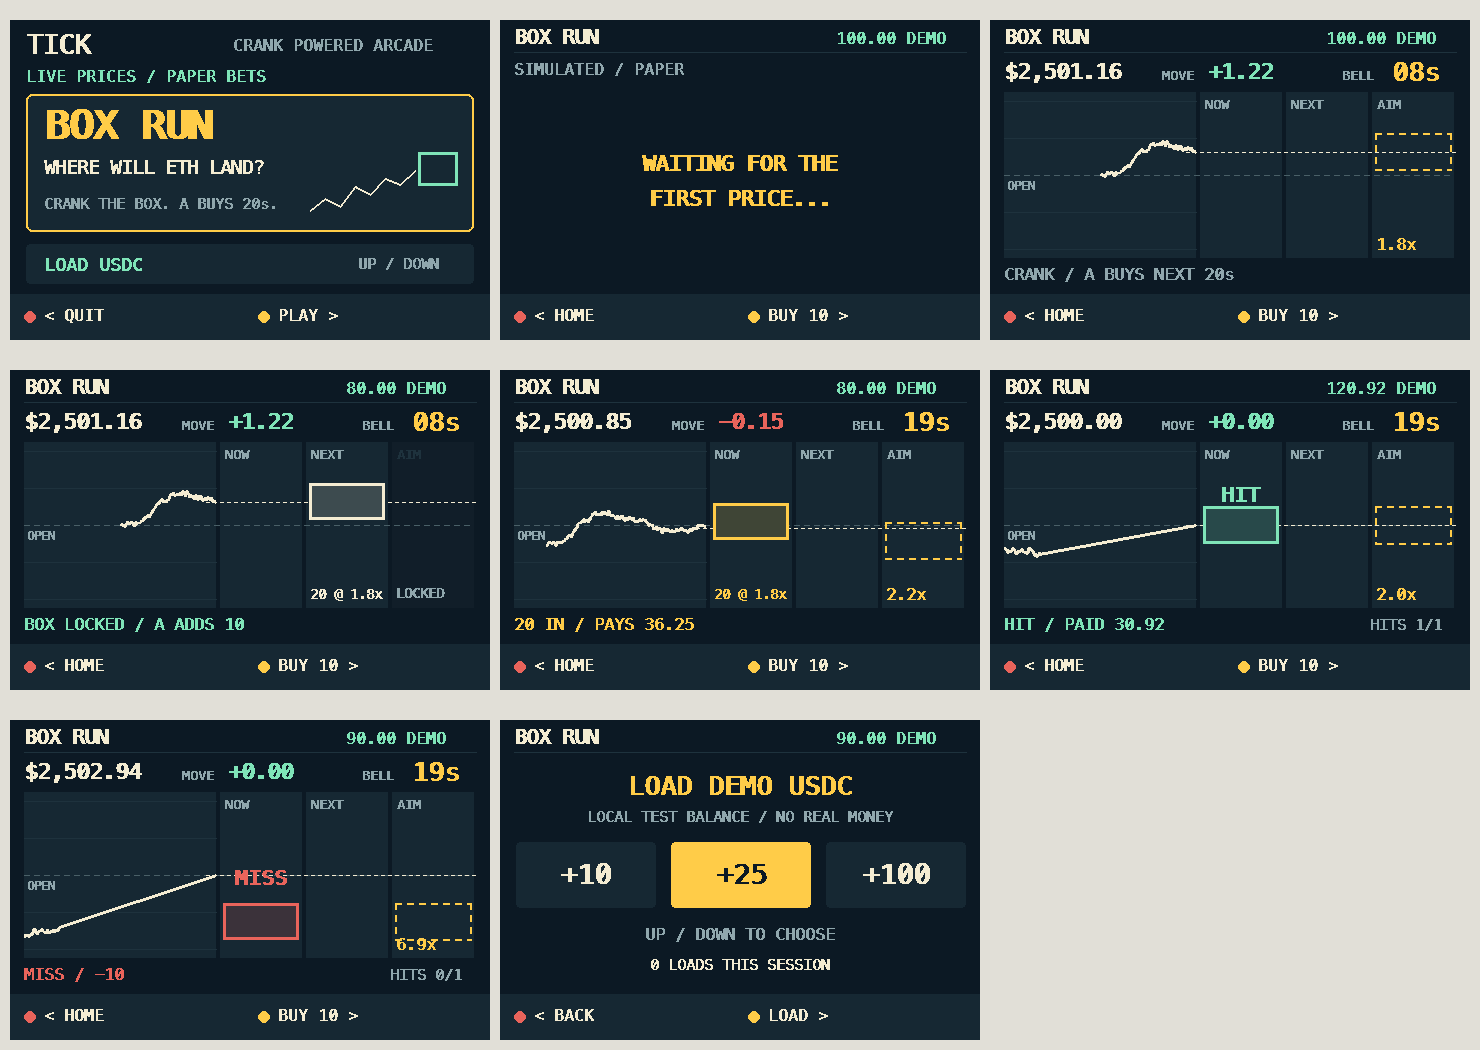
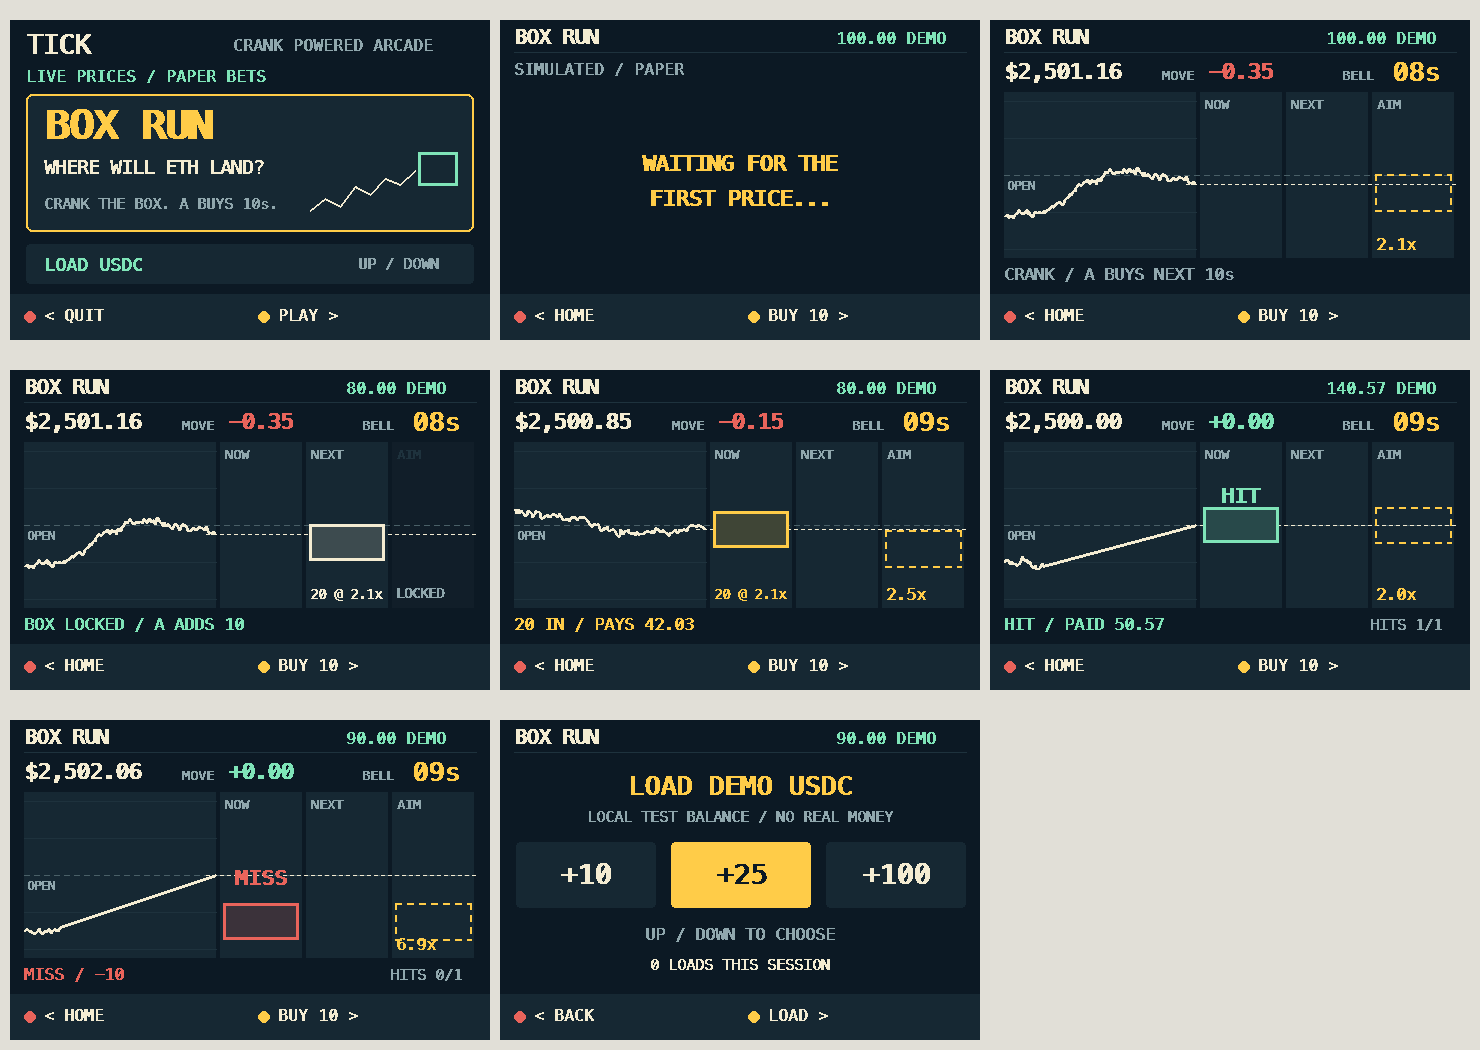
Ten-second windows, with the box scaled to match
Halving the window without touching the box would have flattened the
game rather than quickened it: a price travels sqrt(time), so a box that
stayed $2 wide becomes a near-certainty on spot paying 1.2x, with
everything past a dollar out pinned to the 25x cap.

Geometry is now quoted for a 20-second reference window and scaled by
sqrt(WINDOW_S / 20), which makes the window length a safe knob. At ten
seconds that is a $1.41 box, 18c steps and $2.12 of reach on $2,500 ETH,
and the ladder of odds is the one the 20-second build had: 1.5x on spot
at the bell out to 25x at full reach, or 1.9x to 11.6x for the same
boxes bought a window early.

The trace window follows WINDOW_S too, so it still shows this window
plus a lead-in rather than two and a half windows of history. Window
lengths in on-screen text now come from the constant instead of being
written out, which is how "A BUYS NEXT 20s" survived the change.

76 tests.

diff --git a/firmware/tests/test_box.py b/firmware/tests/test_box.py
@@ -52,11 +52,12 @@ class WindowClockTests(unittest.TestCase):
         self.assertGreater(m.window_end, now + 2 * m.WINDOW_S)
         self.assertEqual((m.rounds, m.wallet.balance), (0, START))
 
-    def test_window_length_is_exactly_twenty_seconds(self):
+    def test_windows_are_ten_seconds_long(self):
         m = model()
         feed(m, [2500.0])
         first = m.window_end
         m.update(first + .001)
+        self.assertEqual(m.WINDOW_S, 10.0)
         self.assertAlmostEqual(m.window_end - first, m.WINDOW_S)
 
     def test_rolling_is_time_driven_not_frame_driven(self):
@@ -309,27 +310,43 @@ class PricingTests(unittest.TestCase):
         # Volatility moves the odds, never the geometry: the box is a fixed
         # slice of the price, so it is identical in both markets.
         for m in (calm, wild):
-            self.assertAlmostEqual(2 * m.half / m.window_open, m.BOX_BPS / 10_000, places=12)
-            self.assertAlmostEqual(m.view_half / m.window_open, m.VIEW_BPS / 10_000, places=12)
-        self.assertAlmostEqual(2 * calm.half, 2.0, places=2)
+            self.assertAlmostEqual(2 * m.half / m.window_open,
+                                   m.BOX_BPS / 10_000 * m.SCALE, places=12)
+            self.assertAlmostEqual(m.view_half / m.window_open,
+                                   m.VIEW_BPS / 10_000 * m.SCALE, places=12)
+        self.assertAlmostEqual(2 * calm.half, 1.41, places=2)
         self.assertGreater(wild.quote(wild.price, T0), calm.quote(calm.price, T0))
 
     def test_a_placed_box_is_never_redrawn_at_another_size(self):
         m = model()
         now = warm(m)
         m.buy(now)
-        placed = m.pending.half
-        # A violent burst mid-window must not resize a bet already down.
+        order, placed = m.pending, m.pending.half
+        # A violent burst must not resize a bet already down, and the bell
+        # carrying it from pending to live must not either.
         feed(m, [2500.0 + (8.0 if i % 2 else -8.0) for i in range(40)], now + .2)
-        self.assertEqual(m.pending.half, placed)
-        self.assertEqual(m.half, placed)
+        self.assertIs(m.live, order)
+        self.assertEqual(order.half, placed)
 
     def test_the_fixture_is_roughly_live_eth_volatility(self):
         m = model()
         warm(m)
-        # About 0.04% over 20 seconds, or a dollar on $2,500.
-        self.assertLess(.5, m.window_sigma())
-        self.assertLess(m.window_sigma(), 2.0)
+        # About 0.03% over ten seconds, or 70c on $2,500.
+        self.assertLess(.4, m.window_sigma())
+        self.assertLess(m.window_sigma(), 1.4)
+
+    def test_shrinking_the_window_keeps_the_same_ladder_of_odds(self):
+        """A shorter window with a square-root-scaled box prices the same."""
+        m = model()
+        warm(m)
+        on_spot = m.quote(m.window_open, m.window_end - m.WINDOW_S)
+        far = m.quote(m.window_open + m.reach, m.window_end - m.WINDOW_S)
+        # The ladder the 20-second build had: about 2x on spot, double digits
+        # at full reach, and not pinned to the cap at either end.
+        self.assertLess(1.5, on_spot)
+        self.assertLess(on_spot, 2.6)
+        self.assertGreater(far, 5.0)
+        self.assertLess(far, m.MAX_MULTIPLE)
 
     def test_volatility_falls_back_before_enough_ticks_arrive(self):
         m = model()
@@ -356,7 +373,7 @@ class AimTests(unittest.TestCase):
         before = m.aim
         m.crank(1)
         self.assertAlmostEqual(m.aim - before, m.step, places=9)
-        self.assertAlmostEqual(m.step, m.window_open * m.STEP_BPS / 10_000, places=9)
+        self.assertAlmostEqual(m.step, m.window_open * m.STEP_BPS / 10_000 * m.SCALE, places=9)
         # Reach is measured from the window's open, so the cursor can never be
         # cranked outside the drawn price band.
         for _ in range(400):

diff --git a/firmware/games/box_model.py b/firmware/games/box_model.py
@@ -5,9 +5,9 @@ expires, whatever box you bought for it settles against the live price and the
 next window starts in the same frame. The dial is always live — cranking moves
 an aim cursor, and pressing A buys the next window at wherever the cursor sits.
 
-The box is always the same size — a fixed slice of the price, about $2 wide on
-$2,500 ETH — so there is nothing to learn about it and nothing that changes
-under you. Its one degree of freedom is how far from spot you park it, and that
+The box is always the same size — a fixed slice of the price, about $1.41 wide
+on $2,500 ETH for a ten-second window — so there is nothing to learn about it
+and nothing that changes under you. Its one degree of freedom is how far from spot you park it, and that
 distance is the whole risk decision. Only the *payout* reacts to the market,
 priced from measured volatility of the live tick stream over the true remaining
 horizon rather than a hardcoded table: the same box pays more when the market is
@@ -89,15 +89,22 @@ class Result:
 
 
 class BoxModel:
-    WINDOW_S = 20.0
+    WINDOW_S = 10.0
     STAKE = 10 * MICRO       # micro-USDC added per press of A
     # Geometry in basis points of the window's opening price: constant, so the
     # box never changes size on screen or in dollars, and never rescales under
-    # a bet that is already placed. At $2,500 ETH these are a $2.00 box, 25c
-    # crank steps and $3.00 of reach either way.
+    # a bet that is already placed.
+    #
+    # These are quoted for a 20-second window and scaled by the square root of
+    # time, because that is how far a price travels. Halving the window without
+    # shrinking the box would make a box on spot a near-certainty paying 1.2x
+    # and everything else a capped lottery ticket — a flatter game, not a
+    # faster one. Scaled, any WINDOW_S keeps the same ladder of odds.
+    REFERENCE_S = 20.0
     BOX_BPS = 8.0
     STEP_BPS = 1.0
     REACH_BPS = 12.0
+    SCALE = (WINDOW_S / REFERENCE_S) ** 0.5
     # Half the visible price band. Exactly reach + half a box, so the cursor
     # can never be cranked out of view.
     VIEW_BPS = REACH_BPS + BOX_BPS / 2
@@ -157,7 +164,7 @@ class BoxModel:
         tick, and taken from the price rather than from volatility so a placed
         box is never redrawn at a different size than it was bought at.
         """
-        base = self.window_open / 10_000
+        base = self.window_open / 10_000 * self.SCALE
         self.half = base * self.BOX_BPS / 2
         self.step = base * self.STEP_BPS
         self.reach = base * self.REACH_BPS

diff --git a/firmware/games/box.py b/firmware/games/box.py
@@ -26,7 +26,7 @@ HALF_PX = TRACE.height // 2 - 9
 # flagged off-scale when it is really on screen. Labels draw over it instead.
 BAND_TOP = TRACE.top + 4
 BAND_BOTTOM = TRACE.bottom - 4
-TRACE_S = 24.0            # seconds of history across the trace
+TRACE_S = BoxModel.WINDOW_S * 1.2   # history across the trace: this window, plus a lead-in
 OPEN_LINE = (74, 96, 103)
 DEAD = (17, 30, 41)       # the AIM lane once the bet is locked
 
@@ -329,7 +329,7 @@ class BoxGame:
                     f'{format_usdc(int(m.live.payout))}'), YELLOW
         if m.pending is not None:
             return 'PLACED / A ADDS 10 MORE', CREAM
-        return 'CRANK / A BUYS NEXT 20s', MUTED
+        return f'CRANK / A BUYS NEXT {self.model.WINDOW_S:.0f}s', MUTED
 
     def draw_status(self, s: pygame.Surface) -> None:
         m = self.model

diff --git a/firmware/screens/home.py b/firmware/screens/home.py
@@ -1,9 +1,10 @@
-"""TICK launcher. One cartridge (RUSH) plus the money loader."""
+"""TICK launcher. One cartridge (BOX RUN) plus the money loader."""
 from __future__ import annotations
 from dataclasses import dataclass
 
 import pygame
 
+from games.box_model import BoxModel
 from input import InputAction, event_position
 from ui import NAVY, PANEL, CREAM, YELLOW, MINT, MUTED, label, footer
 
@@ -14,7 +15,8 @@ class LauncherItem:
     title: str
 
 
-TITLES = {'box': ('BOX RUN', 'WHERE WILL ETH LAND?', 'CRANK THE BOX. A BUYS 20s.'),
+TITLES = {'box': ('BOX RUN', 'WHERE WILL ETH LAND?',
+                  f'CRANK THE BOX. A BUYS {BoxModel.WINDOW_S:.0f}s.'),
           'rush': ('RUSH', 'KEEP IT TURNING.', 'THE DIAL IS THE BET.')}
 
 

diff --git a/firmware/README.md b/firmware/README.md
@@ -2,9 +2,9 @@
 
 Native pygame game for a **480×320 landscape** handheld. Runs on desktop for development and on the Pi's configured SDL display.
 
-**BOX RUN** is a box on the ETH price ladder and a clock that never stops. A 20-second window is always running; **cranking the dial moves your box** up and down, and **A buys the next 20 seconds** at wherever the box is sitting. At the bell, the window settles against the live price — inside the box and you're paid, outside and the stake is gone — and the next window starts in the same frame. There is no size step, no confirmation, and no early exit.
+**BOX RUN** is a box on the ETH price ladder and a clock that never stops. A 10-second window is always running; **cranking the dial moves your box** up and down, and **A buys the next 10 seconds** at wherever the box is sitting. At the bell, the window settles against the live price — inside the box and you're paid, outside and the stake is gone — and the next window starts in the same frame. There is no size step, no confirmation, and no early exit.
 
-The box is **always the same size** — $2.00 on $2,500 ETH — so there is nothing to learn about it and nothing that changes under you. How far you park it from spot is the only decision, and only the *payout* reacts to the market.
+The box is **always the same size** — $1.41 on $2,500 ETH — so there is nothing to learn about it and nothing that changes under you. How far you park it from spot is the only decision, and only the *payout* reacts to the market.
 
 ## Controls
 
@@ -13,7 +13,7 @@ The rotary encoder is the game: GPIO21 CLK, GPIO20 DT, GPIO16 switch, 3.3 V logi
 | Input | Action |
 |---|---|
 | Turn the dial | Move the box up/down the price ladder — until a bet is placed |
-| Short click | Buy the next 20 seconds: +10 USDC on the box where the cursor is |
+| Short click | Buy the next 10 seconds: +10 USDC on the box where the cursor is |
 | Long click (0.65 s) | Back to the launcher |
 
 Press A again in the same window and the extra 10 goes onto **the same box** — the first press fixes that window's level. After that the dial is **locked out entirely**: the box does not move, does not shrink, and no second cursor appears. Only money can still be added, and only by pressing A. The dial frees up again when the bell rolls the window over.
@@ -32,7 +32,7 @@ Time runs left to right: the price trace, then **NOW** (this window's bell), **N
 
 | On screen | Meaning |
 |---|---|
-| `MOVE +1.24` | How far the price has come since this window opened |
+| `MOVE +0.62` | How far the price has come since this window opened |
 | Dashed grey line, `OPEN` | The price this window opened at — the chart is anchored here |
 | Faint horizontal lines | A ruler one box-height apart, so "it moved half a box" is something you can see |
 | Dotted white line | Where the price is now, carried across the columns to read against your box |
@@ -43,7 +43,7 @@ Time runs left to right: the price trace, then **NOW** (this window's bell), **N
 | `20 @ 2.0x` | Stake on that box and the multiple it pays |
 | Small triangle | The box sits past the top or bottom of the visible band |
 
-The visible band is exactly **two box-heights either way** (±$4 on $2,500 ETH), which is what makes a dollar of drift a visible swing rather than a wobble. Widening it to fit every reachable box would flatten the price back out, so a box cranked to the far edge is clamped with a triangle instead.
+The visible band is exactly **two box-heights either way** (±$2.83 on $2,500 ETH), which is what makes a dollar of drift a visible swing rather than a wobble. Widening it to fit every reachable box would flatten the price back out, so a box cranked to the far edge is clamped with a triangle instead.
 
 **The chart is anchored on the window's opening price, not on spot.** Anchoring on spot re-centres the view every tick and pins the newest point to the middle of the screen, which makes movement impossible to see — the price appears still while the world slides around it. Against a reference that holds still for the whole window, a move reads immediately, and the `MOVE` figure puts a number on it.
 
@@ -51,7 +51,9 @@ The visible band is exactly **two box-heights either way** (±$4 on $2,500 ETH),
 
 Distance is the whole risk decision, so the payout is priced from what the market is actually doing rather than a fixed table. Park the box on spot for roughly 2x; crank it to the edge of its reach for 10x or more, capped at 25x.
 
-Geometry is fixed in basis points of the window's opening price — an $2.00 box, 25c crank steps and $3.00 of reach on $2,500 ETH — so **volatility moves the odds and never the box**. Sizing the box in sigma instead (as this first did) means a bet already placed gets redrawn at a different size when the market picks up, which is both confusing and dishonest about what you bought. The cost of fixing it is that a violent market makes the same box genuinely hard to hit; the multiple rises to match, which is the honest response rather than quietly making the target bigger.
+Geometry is fixed in basis points of the window's opening price — a $1.41 box, 18c crank steps and $2.12 of reach on $2,500 ETH — so **volatility moves the odds and never the box**.
+
+Those numbers are quoted for a 20-second window and **scaled by the square root of time**, because that is how far a price travels. `WINDOW_S` is therefore a safe knob: halving it without shrinking the box would leave a box on spot a near-certainty paying 1.2x and everything else pinned to the cap — a flatter game, not a faster one. Scaled, ten-second windows keep the ladder the twenty-second build had: about 1.5x on spot at the bell, 25x at full reach, 1.9x to 11.6x for the same boxes bought a window early. Sizing the box in sigma instead (as this first did) means a bet already placed gets redrawn at a different size when the market picks up, which is both confusing and dishonest about what you bought. The cost of fixing it is that a violent market makes the same box genuinely hard to hit; the multiple rises to match, which is the honest response rather than quietly making the target bigger.
 
 The estimator is deliberately **median-based**: a mean of squared returns would let one flash spike or feed glitch inflate the box for several windows afterward. It is also cached per tick — the renderer asks for volatility once per plotted point, and rescanning the history hundreds of times a frame is not something the Pi can spare.
 
@@ -76,7 +78,7 @@ Balances are integer **micro-USDC** (6 decimals, the real USDC unit) so a sessio
 
 | `TICK_MARKET_SOURCE` | Feed |
 |---|---|
-| `sim` (default) | Seeded 20 Hz Gaussian walk at roughly live ETH volatility — about 0.04% over 20 seconds. Tick spacing is counted in integer microseconds, so the same wall-clock time produces the same ticks at any frame rate |
+| `sim` (default) | Seeded 20 Hz Gaussian walk at roughly live ETH volatility — about 0.03% over ten seconds. Tick spacing is counted in integer microseconds, so the same wall-clock time produces the same ticks at any frame rate |
 | `coinbase` | Public Coinbase REST ticker at 5 Hz on a worker thread, read-only |
 
 A 20-second window needs a trace rather than a staircase, which is why the live adapter polls at 5 Hz (well inside the public rate limit) instead of once a second. Payloads are validated before use — finite positive price, timezone-aware timestamp, no future stamp — and carry a sequence number and source age, so out-of-order or stale ticks cannot price or settle anything. A production adapter should use the venue's WebSocket trade stream.
